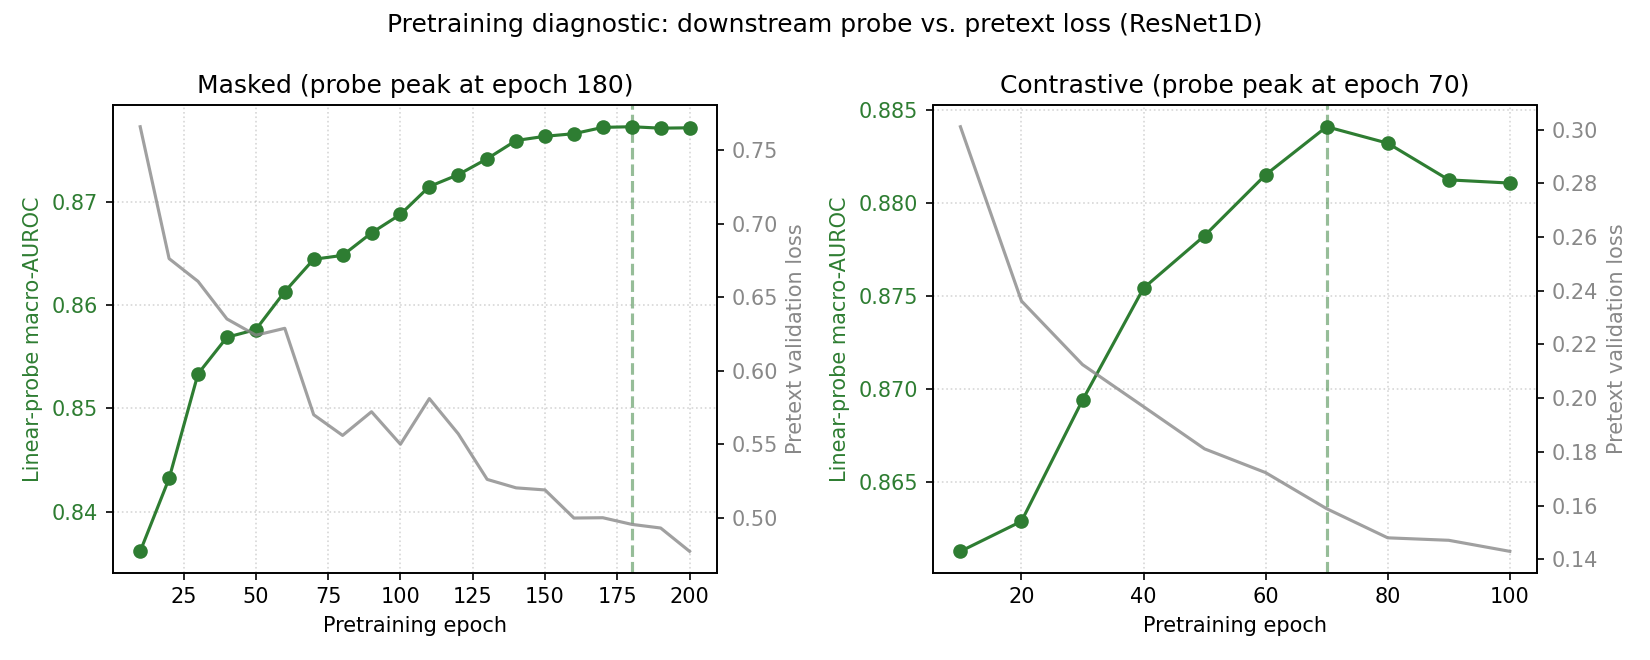
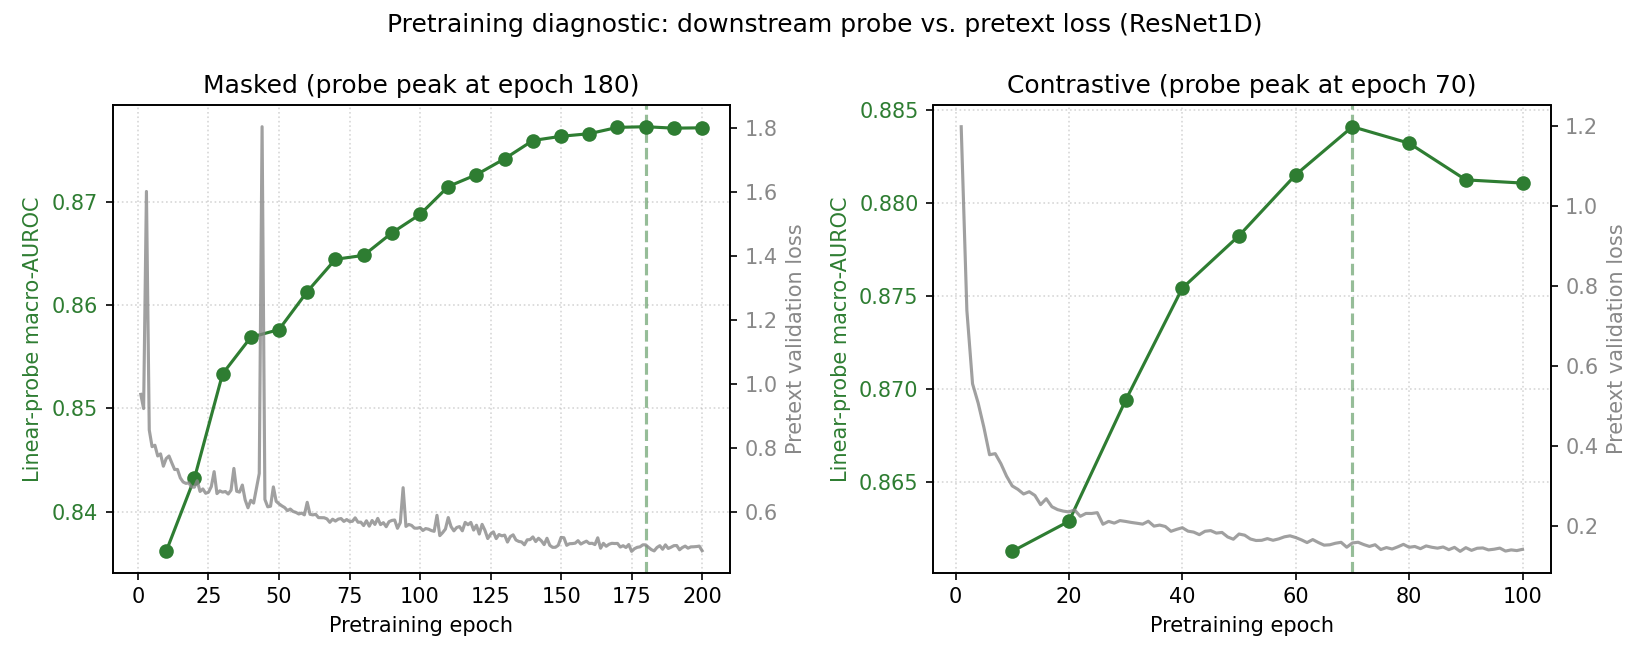
Organize scripts into figures, data and eval subfolders

diff --git a/scripts/figures/plot_data_efficiency.py b/scripts/figures/plot_data_efficiency.py
@@ -6,7 +6,7 @@ averaging test macro-AUROC over subsampling seeds, and writes the two-panel
 figure used in the README: one panel per regime, each comparing the two
 self-supervised methods against the supervised-from-scratch reference. Reads from
 W&B so the figure is reproducible from the logged runs rather than copied numbers.
-Usage: ``uv run python scripts/plot_data_efficiency.py [arch] [entity/project]``.
+Usage: ``uv run python scripts/figures/plot_data_efficiency.py [arch] [entity/project]``.
 """
 
 from __future__ import annotations
@@ -26,7 +26,7 @@ METHODS = {"masked": ("Masked SSL", "#d1495b"), "contrastive": ("Contrastive SSL
 PANELS = [("linear_probe", "Linear probe"), ("finetune", "Fine-tune")]
 ARCH_LABELS = {"resnet1d": "ResNet1D", "cnn_transformer": "CNN+Transformer"}
 SCRATCH_COLOR = "#888888"
-REPO_ROOT = Path(__file__).resolve().parents[1]
+REPO_ROOT = Path(__file__).resolve().parents[2]
 
 
 def collect(path: str, arch: str):

diff --git a/scripts/figures/plot_probe_diagnostic.py b/scripts/figures/plot_probe_diagnostic.py
@@ -6,7 +6,7 @@ masked reconstruction tracks the probe monotonically, whereas the contrastive
 objective keeps improving its loss while the probe peaks early and degrades —
 motivating checkpoint selection by the probe rather than the pretext loss. Reads
 the logged W&B history.
-Usage: ``uv run python scripts/plot_probe_diagnostic.py [entity/project]``.
+Usage: ``uv run python scripts/figures/plot_probe_diagnostic.py [entity/project]``.
 """
 
 from __future__ import annotations
@@ -22,7 +22,7 @@ DEFAULT_PATH = "sergiolsantamaria-tu-wien/deep-ecg"
 RUNS = [("masked", "masked_resnet1d_probe"), ("contrastive", "contrastive_resnet1d_probe")]
 PROBE_COLOR = "#2e7d32"
 LOSS_COLOR = "#888888"
-REPO_ROOT = Path(__file__).resolve().parents[1]
+REPO_ROOT = Path(__file__).resolve().parents[2]
 
 
 def latest_run(api, path: str, name: str):

diff --git a/scripts/eval/ensemble.py b/scripts/eval/ensemble.py
@@ -3,7 +3,7 @@
 Each run's best checkpoint is rebuilt from its Hydra config; runs trained with
 random crop are evaluated with matching test-time crop averaging, others on the
 full signal. Per-class thresholds are tuned on the (ensembled) validation fold.
-Usage: ``uv run python scripts/ensemble.py <run_dir> <run_dir> [...]``.
+Usage: ``uv run python scripts/eval/ensemble.py <run_dir> <run_dir> [...]``.
 """
 
 from __future__ import annotations

diff --git a/scripts/eval/evaluate.py b/scripts/eval/evaluate.py
@@ -2,7 +2,7 @@
 
 Loads a run's Hydra config and best checkpoint, rebuilds the data and model,
 tunes per-class thresholds on the validation fold, and reports test metrics and
-a per-class report. Usage: ``uv run python scripts/evaluate.py <run_dir>``.
+a per-class report. Usage: ``uv run python scripts/eval/evaluate.py <run_dir>``.
 """
 
 from __future__ import annotations

diff --git a/scripts/data/download_ptbxl.py b/scripts/data/download_ptbxl.py
@@ -19,7 +19,7 @@ PTBXL_URL = (
     "ptb-xl-a-large-publicly-available-electrocardiography-dataset-1.0.3.zip"
 )
 EXTRACTED_DIRNAME = "ptb-xl-a-large-publicly-available-electrocardiography-dataset-1.0.3"
-REPO_ROOT = Path(__file__).resolve().parents[1]
+REPO_ROOT = Path(__file__).resolve().parents[2]
 
 
 def _remote_size(url: str) -> int:
